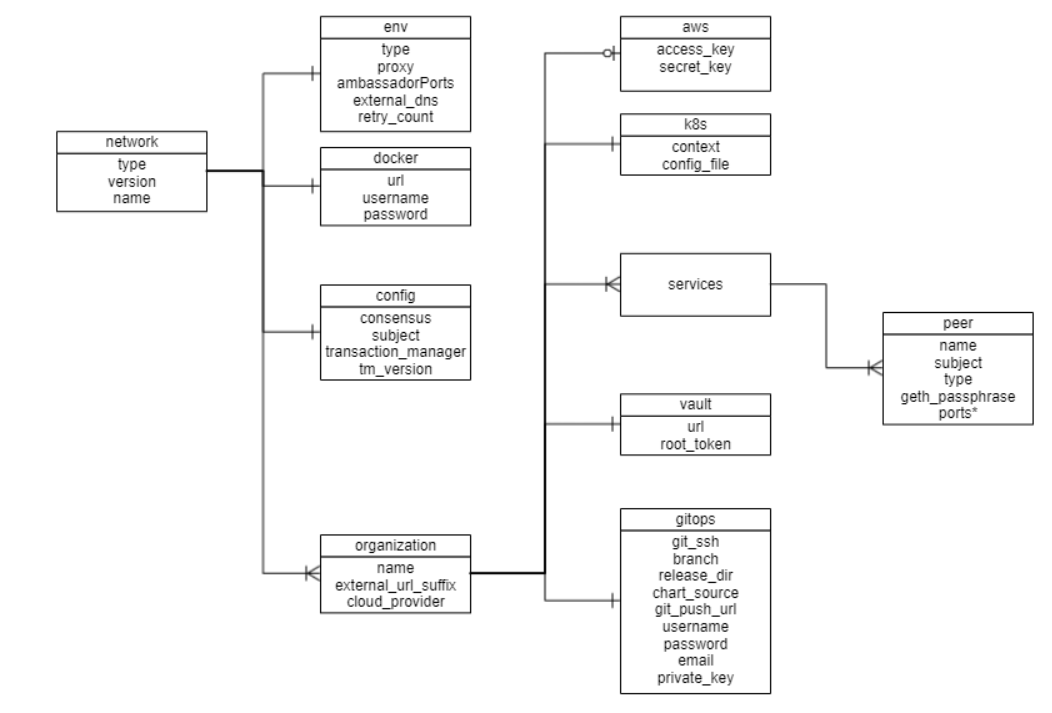
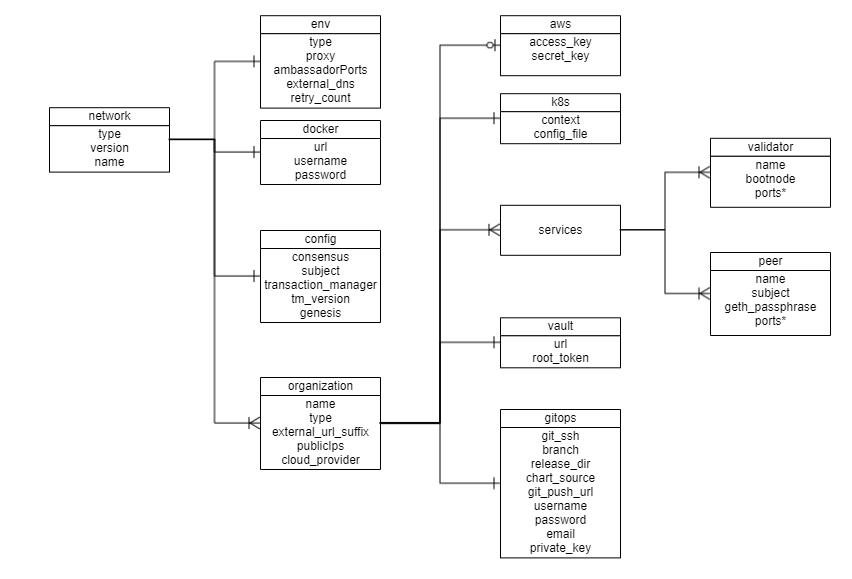
Add Besu Architecture docs (#835)
* [docs] Update Besu architecture

* Fix roadmap sphinx error

Changed region(s): [[0.0305, 0.0, 0.7324, 0.9948], [0.7324, 0.3731, 1.0, 0.6218], [0.7629, 0.2176, 0.9765, 0.3731]]

diff --git a/docs/source/operations/besu_networkyaml.md b/docs/source/operations/besu_networkyaml.md
@@ -1,6 +1,6 @@
 # Configuration file specification: Hyperledger Besu
 A network.yaml file is the base configuration file designed in the Blockchain Automation Framework for setting up a Hyperledger Besu DLT/Blockchain network. This file contains all the configurations related to the network that has to be deployed. Below shows its structure.
-![](./../_static/TopLevelClass-Besu.PNG)
+![](./../_static/TopLevelClass-Besu.png)
 
 Before setting up a Hyperledger Besu DLT/Blockchain network, this file needs to be updated with the required specifications.  
 A sample configuration file is provided in the repo path:  
@@ -28,10 +28,10 @@ The sections in the sample configuration file are
 
 `type` defines the platform choice like corda/fabric/indy/quorum/besu, here in the example its **besu**.
 
-`version` defines the version of platform being used. The current Hyperledger Besu version support is only for **1.4.4**
+`version` defines the version of platform being used. The current Hyperledger Besu version support is only for **1.4.4**.
 
 
-`env` section contains the environment type and additional (other than 8443) Ambassador port configuration. Vaule for proxy field under this section can be 'ambassador' or 'haproxy'
+`env` section contains the environment type and additional (other than 8443) Ambassador port configuration. Vaule for proxy field under this section can be 'ambassador' as 'haproxy' has not been implemented for Besu.
 
 The snapshot of the `env` section with example value is below
 ```yaml 
@@ -91,15 +91,19 @@ The snapshot of the `config` section with example values is below
     # Supported versions #
     # orion: 1.5.3 (for besu 1.4.4)
     tm_version: "1.5.3"               # This is the version of "orion" docker image that will be deployed
+    ## File location for saving the genesis file should be provided.
+    genesis: "/home/user/blockchain-automation-framework/build/besu_genesis"   # Location where genesis file will be saved
+
 ```
 The fields under `config` are
 
 | Field       | Description                                              |
 |-------------|----------------------------------------------------------|
-| consensus   | Currently supports `ibft`. Please update the remaining items according to the consensus chosen as not all values are valid for both the consensus.                                 |
+| consensus   | Currently supports `ibft`.                                 |
 | subject     | This is the subject of the root CA which will be created for the Hyperledger Besu network. The root CA is for development purposes only, production networks should already have the root certificates.   |
-| transaction_manager    | Options is `orion`. Please update the remaining items according to the transaction_manager chosen as not all values are valid for the transaction_manager. |
+| transaction_manager    | Currently supports `orion`. Please update the remaining items according to the transaction_manager chosen as not all values are valid for the transaction_manager. |
 | tm_version         | This is the version of `orion` docker image that will be deployed. Supported versions: `1.5.3` for `orion`. |
+| genesis | This is the path where `genesis.json` will be stored for a new network; for adding new node, the existing network's genesis.json should be available in json format in this file. |
 
 
 The `organizations` section contains the specifications of each organization.  
@@ -111,7 +115,12 @@ The snapshot of an organization field with sample values is below
     # Specification for the 1st organization. Each organization maps to a VPC and a separate k8s cluster
     - organization:
       name: carrier
-      external_url_suffix: test.besu.blockchaincloudpoc.com   # This is the url suffix that will be added in DNS recordset. Must be different for different clusters
+      type: member
+      # Provide the url suffix that will be added in DNS recordset. Must be different for different clusters
+      external_url_suffix: test.besu.blockchaincloudpoc.com
+      # List of all public IP addresses of each availability zone from all organizations in the same k8s cluster
+      # The Ambassador will be set up using these static IPs. The child services will be assigned the first IP in this list.
+      publicIps: ["3.221.78.194","21.23.74.154"] 
       cloud_provider: aws   # Options: aws, azure, gcp, minikube
 ```
 Each `organization` under the `organizations` section has the following fields. 
@@ -119,13 +128,15 @@ Each `organization` under the `organizations` section has the following fields.
 | Field                                    | Description                                 |
 |------------------------------------------|-----------------------------------------------------|
 | name                                        | Name of the organization     |
-| external_url_suffix                         | Public url suffix of the cluster.         |
+| type | Can be `member` for peer/member organization and `validator` for Validator organization.|
+| external_url_suffix                         | Public url suffix for the cluster. This is used to discover Orion nodes between different clusters.         |
+| publicIps | List of all public IP addresses of each availability zone from all organizations in the same k8s cluster. The Ambassador will be set up using these static IPs. The child services will be assigned the first IP in this list. |
 | cloud_provider                              | Cloud provider of the Kubernetes cluster for this organization. This field can be aws, azure, gcp or minikube |
-| aws                                         | When the organization cluster is on AWS |
+| aws                                         | Contains the AWS CLI credentials when the organization cluster is on AWS |
 | k8s                                         | Kubernetes cluster deployment variables.|
-| vault                                       | Contains Hashicorp Vault server address and root-token in the example |
+| vault                                       | Contains Hashicorp Vault server address and root-token |
 | gitops                                      | Git Repo details which will be used by GitOps/Flux. |
-| services                                    | Contains list of services which could ca/peer/orderers/concensus based on the type of organization |
+| services                                    | Contains list of services which could be validator/peer based on the type of organization |
 
 For the `aws` and `k8s` field the snapshot with sample values is below
 ```yaml
@@ -182,25 +193,30 @@ The gitops field under each organization contains
 | email                                | Email of the user to be used in git config                                                                       |
 | private_key                          | Path to the private key file which has write-access to the git repo                                              |
 
-The services field for each organization under `organizations` section of Hyperledger Besu contains list of `services` which could be ony peers as of now.
+The services field for each organization under `organizations` section of Hyperledger Besu contains list of `services` which could be peers or validators.
 
-Each organization with type as peer will have a peers service. The snapshot of peers service with example values is below
+Each organization with type as `member` will have a peers service. The snapshot of peers service with example values is below
 ```yaml
         peers:
         - peer:
           name: carrier
           subject: "O=Carrier,OU=Carrier,L=51.50/-0.13/London,C=GB" # This is the node subject. L=lat/long is mandatory for supplychain sample app
-          type: validator         # value can be validator or non-validator, only applicable if consensus = 'ibft'
           geth_passphrase: 12345  # Passphrase to be used to generate geth account
           p2p:
-            port: 21000
+            port: 30303
             ambassador: 15010       #Port exposed on ambassador service (use one port per org if using single cluster)
           rpc:
-            port: 8546
+            port: 8545
             ambassador: 15011       #Port exposed on ambassador service (use one port per org if using single cluster)
-          transaction_manager:
-            port: 8443          
-            ambassador: 8443    
+          ws:
+            port: 8546
+            ambassador: 15012
+          tm_nodeport:
+            port: 8888         
+            ambassador: 15013   # Port exposed on ambassador service (Transaction manager node port)
+          tm_clientport:
+            port: 8080         
+            ambassador: 15014    # Port exposed on ambassador service (Transaction manager client port)    
 ```
 The fields under `peer` service are
 
@@ -208,15 +224,46 @@ The fields under `peer` service are
 |-------------|----------------------------------------------------------|
 | name            | Name of the peer                |
 | subject     | This is the alternative identity of the peer node    |
-| type           | Type can be `validator` and `nonvalidator`. This is only applicable for `ibft` consensus. |
 | geth_passphrase | This is the passphrase used to generate the geth account. |
 | p2p.port   | P2P port for Besu|
 | p2p.ambassador | The P2P Port when exposed on ambassador service|
 | rpc.port   | RPC port for Besu|
 | rpc.ambassador | The RPC Port when exposed on ambassador service|
-| transaction_manager.port   | Port used by Transaction manager `orion`. |
-| transaction_manager.ambassador | The tm port when exposed on ambassador service. |
+| ws.port   | Webservice port for Besu|
+| ws.ambassador | The Webservice Port when exposed on ambassador service|
+| tm_nodeport.port   | Port used by Transaction manager `orion`. |
+| tm_nodeport.ambassador | The tm port when exposed on ambassador service. |
+| tm_clientport.port   | Client Port used by Transaction manager `orion`. |
+| tm_clientport.ambassador | The Client port when exposed on ambassador service. |
 
+Each organization with type as `validator` will have a validator service. The snapshot of validator service with example values is below
+```yaml
+      validators:
+        - validator:
+          name: validator1
+          bootnode: true          # true if the validator node is used also a bootnode for the network
+          p2p:
+            port: 30303
+            ambassador: 15010       #Port exposed on ambassador service (use one port per org if using single cluster)
+          rpc:
+            port: 8545
+            ambassador: 15011       #Port exposed on ambassador service (use one port per org if using single cluster)
+          ws:
+            port: 8546          
+            ambassador: 8443    # Port exposed on ambassador service (Transaction manager port)
+            
+```
+The fields under `validator` service are
 
+| Field       | Description                                              |
+|-------------|----------------------------------------------------------|
+| name            | Name of the validator                |
+| bootnode     | `true` if the validator node is used also a bootnode for the network ***    |
+| p2p.port   | P2P port for Besu|
+| p2p.ambassador | The P2P Port when exposed on ambassador service|
+| rpc.port   | RPC port for Besu|
+| rpc.ambassador | The RPC Port when exposed on ambassador service|
+| ws.port   | Webservice port for Besu|
+| ws.ambassador | The Webservice Port when exposed on ambassador service|
 
 *** feature is in future scope

diff --git a/README.md b/README.md
@@ -8,19 +8,20 @@
 
 - [Short Description](#short-description)
 - [Scope of Lab](#scope-of-lab)
-  - [Documentation](#documentation)
+  - [Getting Started](#getting-started)
   - [Hyperledger Fabric](#hyperledger-fabric)
   - [Corda Enterprise](#corda-enterprise)
   - [Corda Opensource](#corda-opensource)
   - [Hyperledger Indy](#hyperledger-indy)
   - [Quorum](#quorum)
+  - [Hyperledger Besu](#hyperledger-besu)
 - [Contact](#contact)
 - [Contributing](#contributing)
 - [Initial Committers](#initial-committers)
 - [Sponsor](#sponsor)
 
 ## Short Description
-An automation framework for rapidly and consistently deploying production-ready DLT platforms
+An automation framework for rapidly and consistently deploying production-ready DLT platforms.
 
 ## Scope of Lab
 Blockchain Automation Framework delivers an automation framework for rapidly and consistently deploying production-ready DLT platforms to cloud infrastructure.
@@ -29,10 +30,13 @@ Blockchain Automation Framework delivers an automation framework for rapidly and
 
 Blockchain Automation Framework makes use of Ansible, Helm, and Kubernetes to deploy production DLT networks. Specifically, it makes use of Ansible for configuration of the network by DevOps Engineers. It then uses Helm charts as instructions for deploying the necessary components to Kubernetes. Kubernetes was chosen to allow for Blockchain Automation Framework to deploy the DLT networks to any cloud that supports Kubernetes.
 
-Blockchain Automation Framework initially supports Hyperledger Fabric and Corda. It is the intention to add support for Hyperledger Sawtooth, Hyperledger Indy and Quorum. Other DLT platforms can easily be added.
+Blockchain Automation Framework currently supports Corda, Hyperledger Fabric, Hyperledger Indy and Quorum. It is the intention to add support for Hyperledger Besu and Corda Enterprise in the near future. Other DLT platforms can easily be added.
 
-### Documentation
-Detailed operator and developer documentation is available at [our ReadTheDocs site](https://blockchain-automation-framework.readthedocs.io/en/latest/index.html).
+### Getting Started
+
+To get started with the framework quickly, follow our [Getting Started guidelines](https://blockchain-automation-framework.readthedocs.io/en/latest/gettingstarted.html).
+
+Detailed operator and developer documentation is available on [our ReadTheDocs site](https://blockchain-automation-framework.readthedocs.io/en/latest/index.html).
 
 The documentation can also be built locally be following instructions in the `docs` folder.
 
@@ -52,7 +56,7 @@ For Corda Opensource, we build Docker containers from the Corda source. A number
 ![Blockchain Automation Framework - Corda](./docs/images/blockchain-automation-framework-corda.png "Blockchain Automation Framework for Corda")
 
 ### Hyperledger Indy
-For Hyperledger Indy, we build Docker containers from our source code. A number of different Ansible scripts will allow you to either create a new network (across clouds).
+For Hyperledger Indy, we build Docker containers from our source code. A number of different Ansible scripts will allow you to create a new network (across clouds).
 
 ![Blockchain Automation Framework - Indy](./docs/images/blockchain-automation-framework-indy.png "Blockchain Automation Framework for Hyperledger Indy")
 
@@ -60,6 +64,11 @@ For Hyperledger Indy, we build Docker containers from our source code. A number 
 For Quorum, we use the official Docker containers provided by Quorum. A number of different Ansible scripts will allow you to either create a new network (across clouds) with choice of Consensus (between IBFT and RAFT) and a choice of Transaction Manager (between Tessera and Constellation).
 
 ![Blockchain Automation Framework - Quorum](./docs/images/blockchain-automation-framework-quorum.png "Blockchain Automation Framework for Quorum")
+
+### Hyperledger Besu
+For Hyperledger Besu, we use the official Docker containers provided by that project. A number of different Ansible scripts will allow you to create a new network (across clouds).
+
+![Blockchain Automation Framework - Besu](./docs/images/blockchain-automation-framework-besu.png "Blockchain Automation Framework for Hyperledger Besu")
 
 ## Contact
 We welcome your questions & feedback on our [Rocketchat channel](https://chat.hyperledger.org/channel/blockchain-automation-framework).

diff --git a/docs/source/architectureref/hyperledger-besu.md b/docs/source/architectureref/hyperledger-besu.md
@@ -1,0 +1,69 @@
+# Hyperledger Besu Architecture Reference
+
+## Kubernetes
+
+### Nodes with Orion Transaction Manager
+
+The following diagram shows how Besu peer nodes with Orion TM will be deployed on your Kubernetes instance.
+
+![Figure: Hyperledger Besu Kubernetes Deployment - Orion Peers](../_static/besu-orion-node.png)
+
+**Notes:**
+
+1. Pods are shown in blue in the diagram.
+
+1. Each peer pod will have two init-containers: `certificates-init` to read crypto from Vault and `liveness-check` to check that if the bootnode endpoint is available, only when bootnode is used.
+
+1. Each peer pod will then have two containers: `orion` and `besu` running. Since they are in the same pod, Kubernetes always schedules them on the same VM and they can communicate to each other through localhost. This guarantees minimal latency between them.
+
+1. The storage uses a Kubernetes Persistent Volume.
+
+1. In future releases, the levelDB PVC will be replaced by a containerised database.
+
+### Validator Nodes
+
+The following diagram shows how Besu Validator nodes will be deployed on your Kubernetes instance.
+
+![Figure: Hyperledger Besu Kubernetes Deployment - Validators](../_static/besu-validator-node.png)
+
+**Notes:**
+
+1. Pods are shown in blue in the diagram.
+
+1. Each peer pod will have one init-containers: `certificates-init` to read crypto from Vault.
+
+1. Each peer pod will then have one container `besu` running. 
+
+1. The storage uses a Kubernetes Persistent Volume for storing the besu data-dir.
+
+
+## Components
+
+![Figure: Hyperledger Besu Components](../../images/blockchain-automation-framework-besu.png)
+
+### Docker Images
+The Blockchain Automation Framework uses the officially published Besu Docker images from [hub.docker.com](https://hub.docker.com/u/hyperledger). The following Besu Images are used by the Blockchain Automation Framework.
+
+*  [besu](https://hub.docker.com/r/hyperledger/besu) - Besu Peer and Validator Node
+
+*  [orion](https://hub.docker.com/r/pegasyseng/orion) - Orion Transaction Manager
+
+Additionally, following common images are also used:
+
+*  [alpine-utils](https://hub.docker.com/r/hyperledgerlabs/alpine-utils) - Used as a utility to get crypto from Hashicorp Vault server
+
+### Ansible Playbooks
+Detailed information on ansible playbooks can be referred [here](../developer/besu-ansible.md) and the execution process can be referred [here](../operations/setting_dlt.md).
+
+### Helm Charts
+Detailed information on helm charts can be referred [here](../developer/besu-helmcharts.md).
+
+<a  name="vault-config"></a>
+
+## Vault Configuration
+
+The Blockchain Automation Framework stores their `crypto` immediately in the Hashicorp Vault secrets engine.
+The crypto is stored by each organization under path `secret/org_namespace` - it contains node keys, keystore, passwords, TM keys, and CA certificates for proxy connections.
+
+
+The complete key paths in the Vault can be referred [here](certificates_path_list_besu.md).

diff --git a/docs/source/architectureref/certificates_path_list_besu.md b/docs/source/architectureref/certificates_path_list_besu.md
@@ -1,0 +1,40 @@
+Certificate Paths on Vault for Hyperledger Besu Network
+-------------------------------------------------------
+
+### For IBFT2 WIP
+
+| Path                                                                              | Key Name               | Description         |
+|-----------------------------------------------------------------------------------|-------------------------------|--------------|
+| secret/{{`component_ns`}}/crypto/{{ `peer_name` }}/data                         | key                       | Private Key Data for a node   |
+| secret/{{`component_ns`}}/crypto/{{ `peer_name` }}/data                         | key.pub                      | Public Key (Identity for a node)  |
+| secret/{{`component_ns`}}/crypto/{{ `peer_name` }}/data                         | nodeAddress                       | Besu Node Address     |
+
+### For Orion
+
+| Path                                                                           | Key Name               | Description         |
+|--------------------------------------------------------------------------------|-------------------------------|--------------|
+| secret/{{ `component_ns` }}/crypto/{{ `peer_name` }}/orion               | key.pub                        | Public key of Transaction manager |
+| secret/{{`component_ns`}}/crypto/{{ `peer_name` }}/orion                 | key                        | Private key of Transaction manager |
+| secret/{{`component_ns`}}/crypto/{{ `peer_name` }}/orion | password  | Password for the Key |
+
+
+### For Root Certificates
+
+| Path                                                                         | Key Name               | Description         |
+|------------------------------------------------------------------------------|-------------------------------|--------------|
+| secret/{{ `component_ns` }}/crypto/{{ `node_name` }}/certs                       | rootca                        | JKS(Java KeyStore) Initail Root CA Certificates  |
+| secret/{{ `component_ns` }}/crypto/{{ `node_name` }}/certs                       | ambassadorcrt                 | Certificate chain for Ambassador proxy  |
+| secret/{{ `component_ns` }}/crypto/{{ `node_name` }}/certs                       | ambassadorkey                 | Ambassador key  |
+
+------------------------------------------------------------------------------------------------
+
+
+Details of Variables
+
+| Variable | Description |
+|-------------------------------|--------------|
+|`component_ns` | Name of Component's Namespace |
+|`peer_name` | Name of Peer  | 
+|`component_name` | Name of Component  | 
+|`node_name` | Name of Node   |
+|`component_auth` | Auth Name |

diff --git a/docs/source/operations/setting_dlt.md b/docs/source/operations/setting_dlt.md
@@ -36,13 +36,12 @@ Depending on your choice of DLT/Blockchain Platform, select a network.yaml and c
 ```
 Open and update the `network.yaml` according to the following Platform specific guides.
 
-| Platform-specific configuration file|
-|---------------------------------|
-| [Hyperledger-Fabric](./fabric_networkyaml.md)|
-| [R3-Corda](./corda_networkyaml.md) 
-| [ Hyperledger-Indy](./indy_networkyaml.md)
-| [Quorum](./quorum_networkyaml.md) |
-| [Hyperledger-Besu](./besu_networkyaml.md)
+### Platform-specific configuration files
+- [Hyperledger-Fabric](./fabric_networkyaml.md)
+- [R3-Corda](./corda_networkyaml.md)    
+- [Hyperledger-Indy](./indy_networkyaml.md)
+- [Quorum](./quorum_networkyaml.md) 
+- [Hyperledger-Besu](./besu_networkyaml.md)
 
 In summary, you will need to update the following:
 1. `docker` url, username and password.

diff --git a/docs/source/developer/besu-ansible.md b/docs/source/developer/besu-ansible.md
@@ -1,4 +1,4 @@
-# hyperledger-besu Configurations
+# Hyperledger Besu Configurations
 
 In the Blockchain Automation Framework project, ansible is used to automate the certificate generation, put them in the vault and generate value files, which are then pushed to the repository for deployment, using GitOps. This is achieved using Ansible playbooks.
 Ansible playbooks contains a series of roles and tasks which run in sequential order to achieve the automation.
@@ -21,7 +21,7 @@ For Hyperledger Besu, the ansible roles and playbooks are located at `/platforms
 
 -------------
 
-## Roles for setting up a Hyperledger-Besu Network
+## Roles for setting up a Hyperledger Besu Network
 
 Roles in ansible are a combination of logically inter-related tasks.
 

diff --git a/MAINTAINERS.md b/MAINTAINERS.md
@@ -9,7 +9,7 @@ This is the list of maintainers, including their github profiles for direct comm
 | Jonathan M Hamilton    | @jonathan-m-hamilton     | Product vision                |
 | Tracy Kuhrt            | @tkuhrt                  | Architecture                  |
 | Sownak Roy             | @sownak                  | Architecture, Development     |
-| Juraj Durech           | @juraj-durech            | Architecture, Development     |
+| Suvajit Sarkar         | @suvajit-sarkar        | Development     |
 
 
 ## License <a name="license"></a>

diff --git a/docs/source/architectureref.rst b/docs/source/architectureref.rst
@@ -188,6 +188,8 @@ Platform-Specific Reference Guides
    architectureref/certificates_path_list_indy
    architectureref/quorum
    architectureref/certificates_path_list_quorum
+   architectureref/hyperledger-besu
+   architectureref/certificates_path_list_besu
 
 .. _Corda: https://docs.corda.net/
 .. _Hyperledger Fabric: https://hyperledger-fabric.readthedocs.io

diff --git a/docs/source/roadmap.rst b/docs/source/roadmap.rst
@@ -95,7 +95,7 @@ Architecture
 -  |hand| Couch DB architecture blueprint
 
 Histroic DLT/Blockchain support releases
------------------------------
+-----------------------------------------
 
 +-------------------------------------------+-----------+--------------+
 | Feature Name                              | Release   | Status       |
